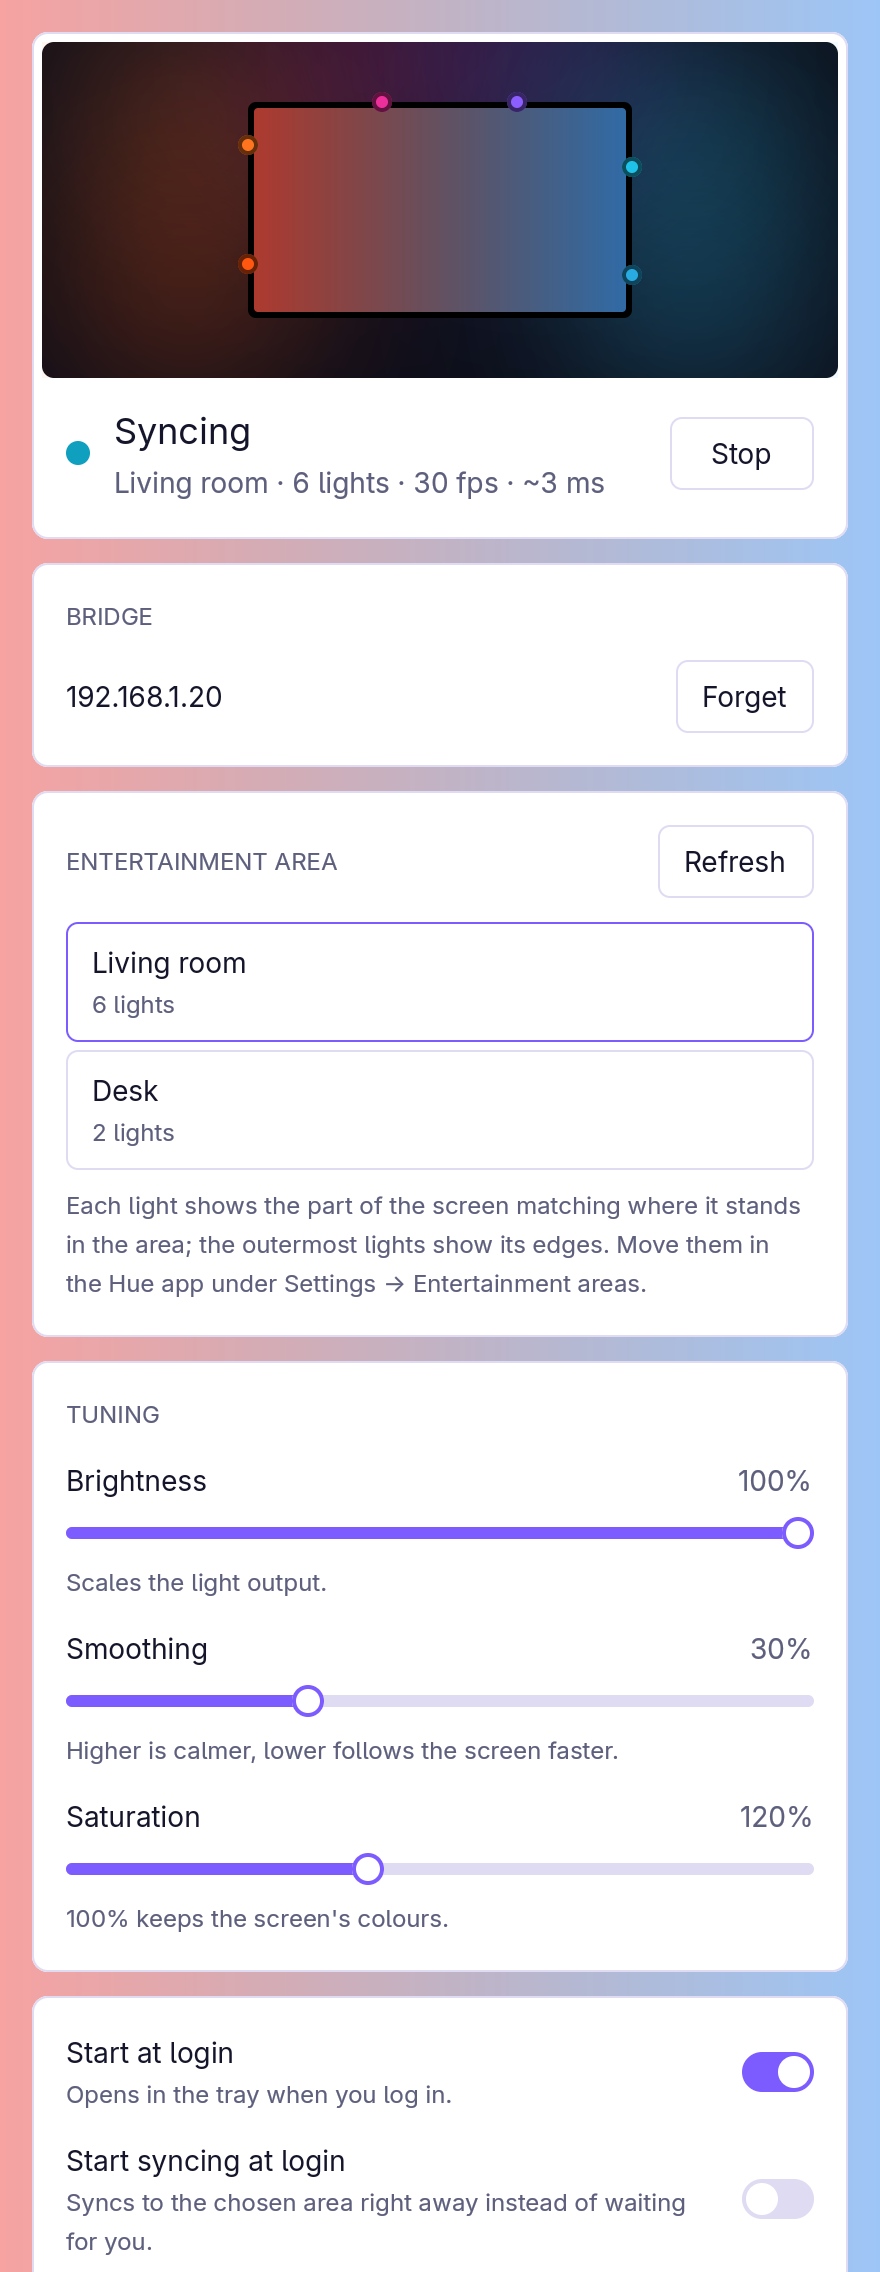
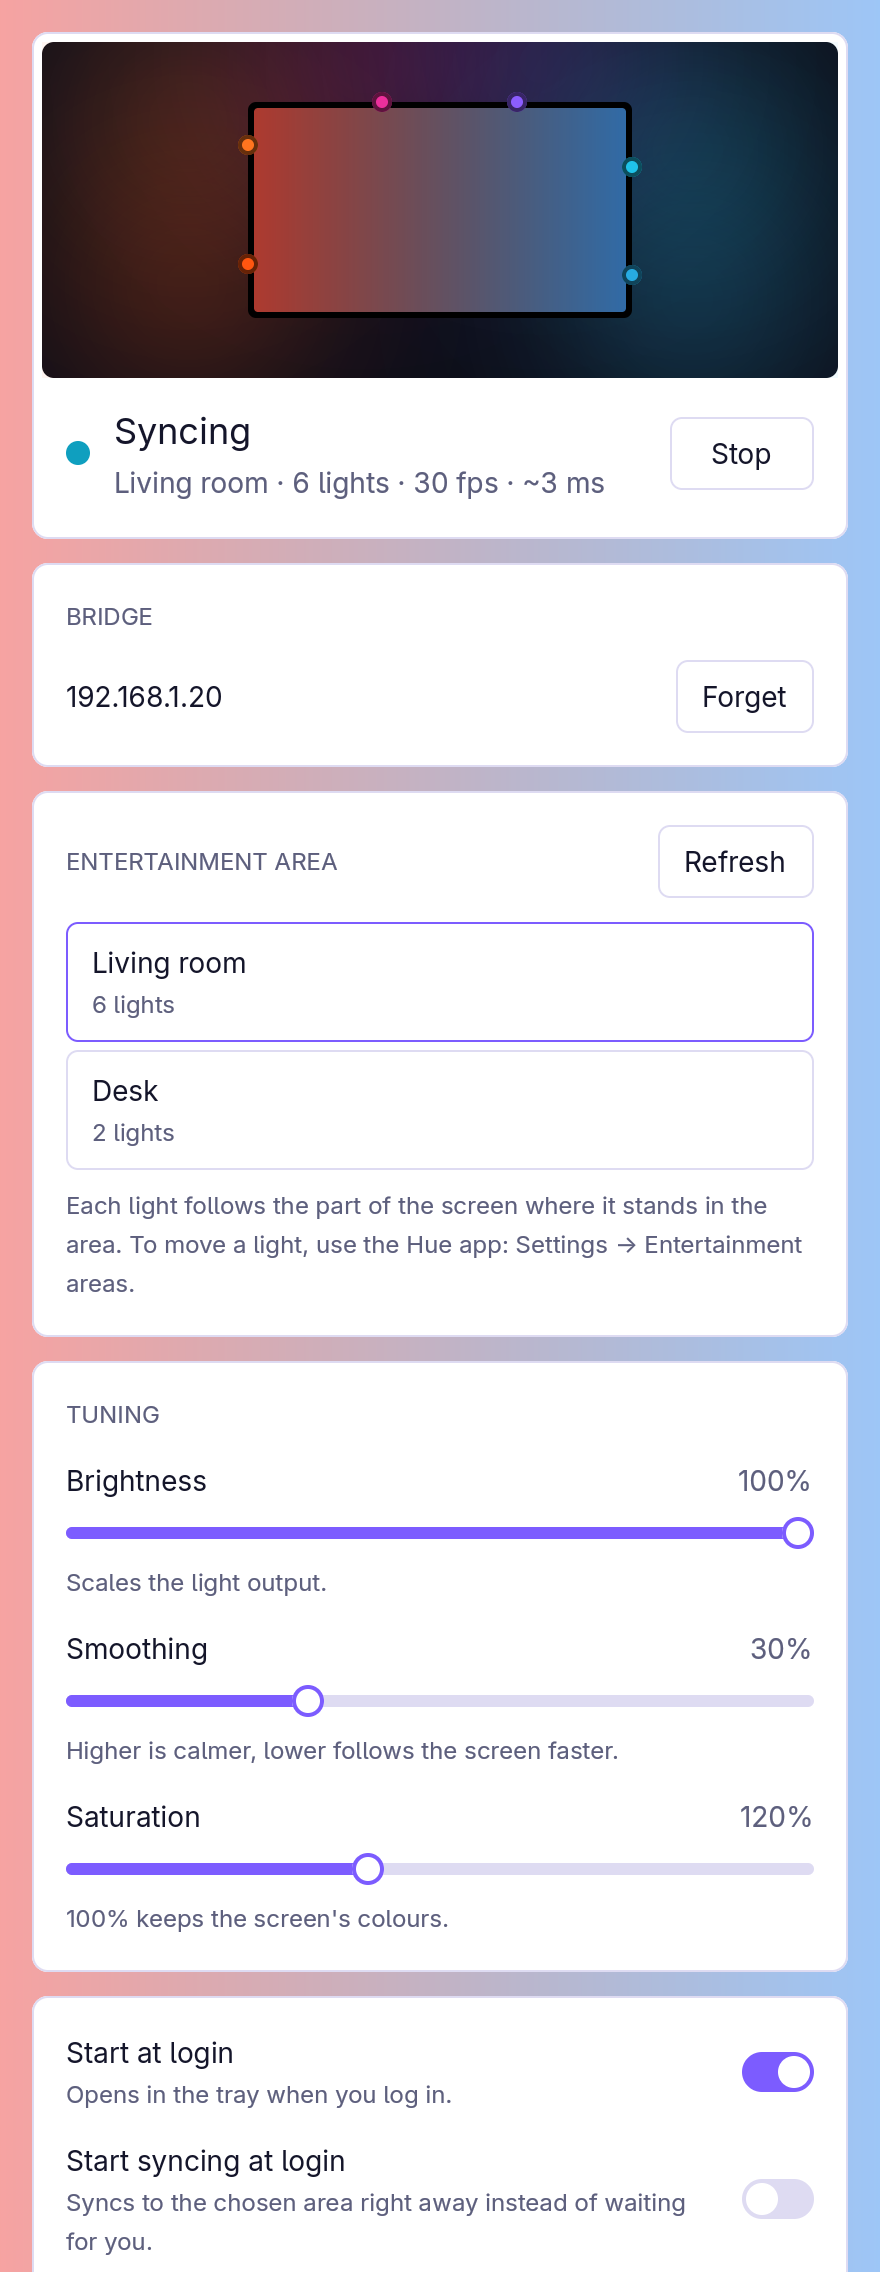
fix(gui): simplify the note on moving lights

Changed region(s): [[0.1534, 0.5312, 0.9205, 0.5938], [0.1227, 0.5625, 0.1534, 0.5938], [0.092, 0.5312, 0.1227, 0.5625]]

diff --git a/crates/lightmime-gui/src/view.rs b/crates/lightmime-gui/src/view.rs
@@ -575,7 +575,7 @@ impl MainView {
                         .pt_1()
                         .text_xs()
                         .text_color(theme.muted)
-                        .child("Each light shows the part of the screen matching where it stands in the area; the outermost lights show its edges. Move them in the Hue app under Settings → Entertainment areas."),
+                        .child("Each light follows the part of the screen where it stands in the area. To move a light, use the Hue app: Settings → Entertainment areas."),
                 )
                 .into_any_element(),
         };
